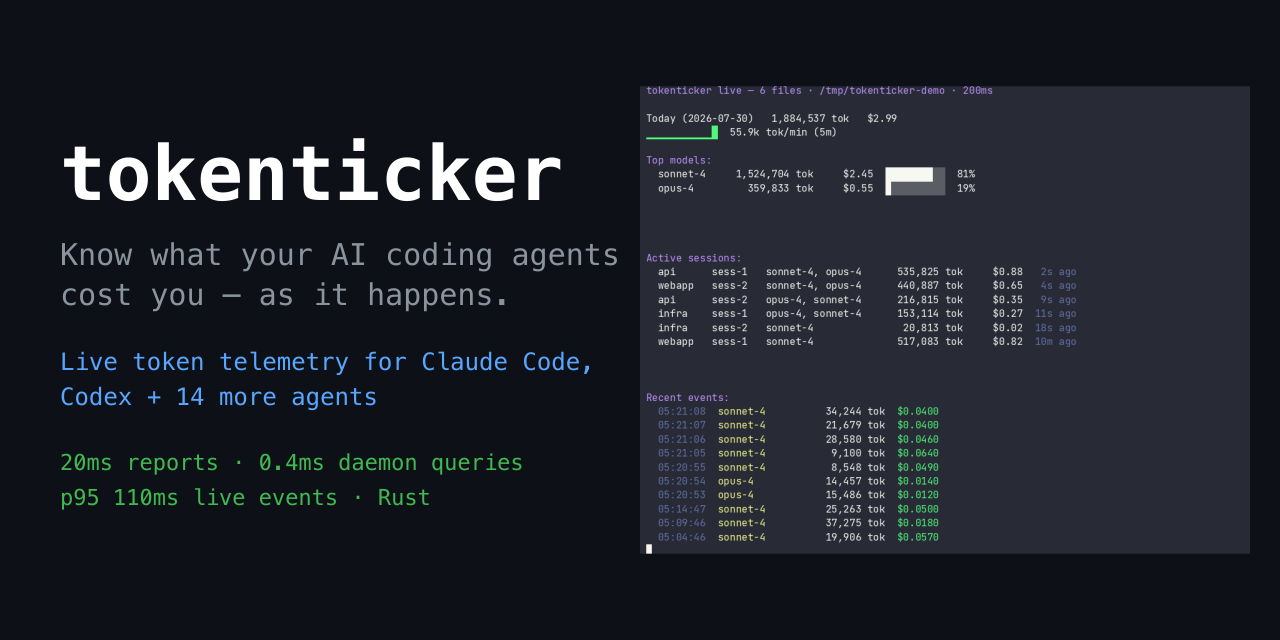
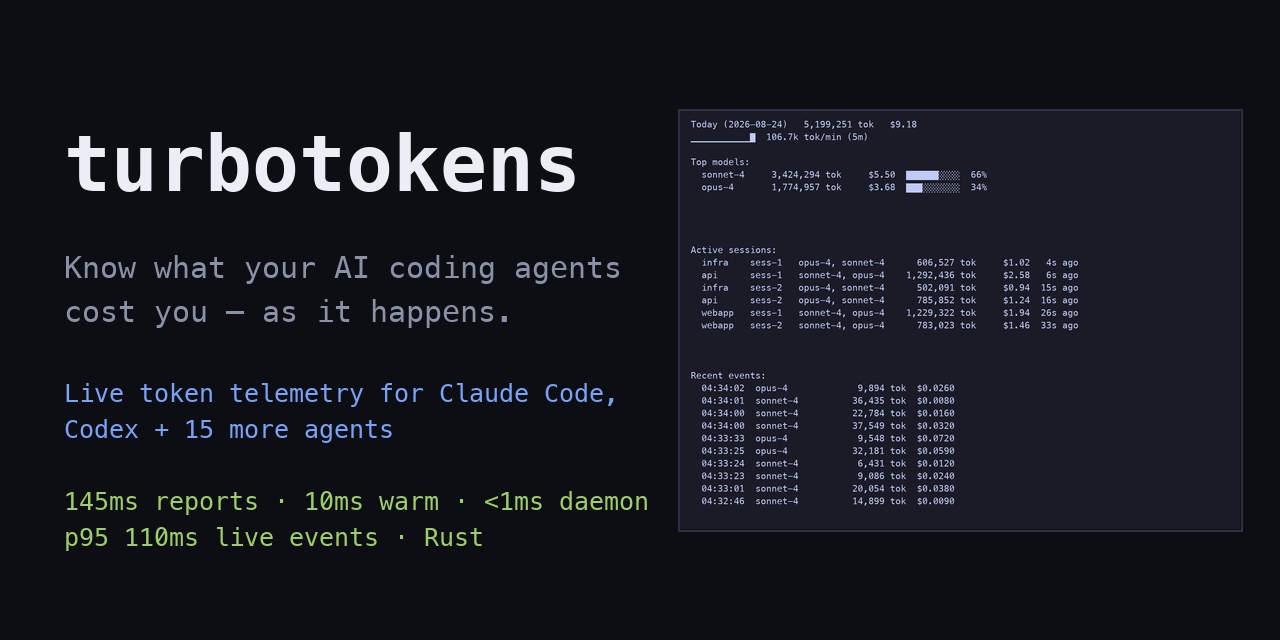
README: hero-first rewrite with regenerated turbotokens-branded assets
- live-demo.gif hero (asciinema+agg capture of the real dashboard)
- live-dashboard/daily-report/social-card re-rendered from real
  terminal output (old images still said 'tokenticker')
- tighter copy: what it is and why in the first screen
- demo/render_cast.py + demo/social_card.py make the assets reproducible

Changed region(s): [[0.0312, 0.125, 1.0, 0.875], [0.0312, 0.5312, 0.4688, 0.875], [0.0312, 0.1875, 0.4688, 0.3125]]

diff --git a/demo/render_cast.py b/demo/render_cast.py
@@ -1,0 +1,142 @@
+#!/usr/bin/env python3
+"""Render the final frame of an asciicast v2 file to a PNG (retina 2x)."""
+import json, sys
+import pyte
+from PIL import Image, ImageDraw, ImageFont
+
+CAST, OUT = sys.argv[1], sys.argv[2]
+COLS = int(sys.argv[3]) if len(sys.argv) > 3 else 100
+ROWS = int(sys.argv[4]) if len(sys.argv) > 4 else 32
+FONT_SIZE = int(sys.argv[5]) if len(sys.argv) > 5 else 30  # 2x of 15px
+TRIM_BOTTOM = len(sys.argv) > 6 and sys.argv[6] == "trim"
+
+# --- theme (tokyo-night-ish, matches old assets) ---
+BG = (26, 27, 38)          # #1a1b26
+FG = (192, 202, 245)       # #c0caf5
+BASE16 = {
+    "black": (21, 23, 36), "red": (247, 118, 142), "green": (158, 206, 106),
+    "yellow": (224, 175, 104), "blue": (122, 162, 247), "magenta": (187, 154, 247),
+    "cyan": (125, 207, 255), "white": (169, 177, 214),
+    "brightblack": (65, 72, 104), "brightred": (247, 118, 142),
+    "brightgreen": (158, 206, 106), "brightyellow": (224, 175, 104),
+    "brightblue": (122, 162, 247), "brightmagenta": (187, 154, 247),
+    "brightcyan": (125, 207, 255), "brightwhite": (192, 202, 245),
+}
+
+def xterm256(n):
+    if n < 16:
+        return list(BASE16.values())[n]
+    if n < 232:
+        n -= 16
+        r, g, b = n // 36, (n % 36) // 6, n % 6
+        conv = lambda v: 55 + v * 40 if v else 0
+        return (conv(r), conv(g), conv(b))
+    v = 8 + (n - 232) * 10
+    return (v, v, v)
+
+def resolve(c, default):
+    if c == "default" or c is None:
+        return default
+    if c in BASE16:
+        return BASE16[c]
+    if isinstance(c, str) and c.isdigit():
+        return xterm256(int(c))
+    if isinstance(c, str) and len(c) == 6:
+        try:
+            return tuple(int(c[i:i+2], 16) for i in (0, 2, 4))
+        except ValueError:
+            pass
+    return default
+
+# --- compose final frame ---
+screen = pyte.Screen(COLS, ROWS)
+stream = pyte.Stream(screen)
+with open(CAST) as f:
+    header = json.loads(f.readline())
+    for line in f:
+        try:
+            ev = json.loads(line)
+        except ValueError:
+            continue
+        if len(ev) >= 3 and ev[1] == "o":
+            stream.feed(ev[2])
+
+lines = []
+for y in range(ROWS):
+    lines.append([screen.display[y]])
+
+# trim fully-blank bottom rows if asked
+disp = screen.display
+last_nonempty = max((i for i, row in enumerate(disp) if row.strip()), default=0)
+nrows = (last_nonempty + 1) if TRIM_BOTTOM else ROWS
+
+# --- fonts ---
+MENLO = "/System/Library/Fonts/Menlo.ttc"
+font = ImageFont.truetype(MENLO, FONT_SIZE, index=0)
+bold = ImageFont.truetype(MENLO, FONT_SIZE, index=1)
+cw = font.getlength("M")
+ascent, descent = font.getmetrics()
+lh = ascent + descent + int(FONT_SIZE * 0.22)
+
+PADX, PADY = int(FONT_SIZE * 1.2), int(FONT_SIZE * 0.9)
+W = int(COLS * cw) + PADX * 2
+H = nrows * lh + PADY * 2
+
+img = Image.new("RGB", (W, H), BG)
+d = ImageDraw.Draw(img)
+
+# --- vector-draw box-drawing chars so lines connect perfectly ---
+LINE_W = max(2, int(FONT_SIZE * 0.075))
+
+def draw_box(ch, px, py, w, h, color):
+    cx, cy = px + w / 2, py + h / 2
+    L = R = T = B = False
+    ARC = None
+    if ch in "─━┄┅┈┉╌╍": L = R = True
+    elif ch in "│┃┆┇┊┋╎╏": T = B = True
+    elif ch in "┌┍┎┏": R = B = True
+    elif ch in "┐┑┒┓": L = B = True
+    elif ch in "└┕┖┗": R = T = True
+    elif ch in "┘┙┚┛": L = T = True
+    elif ch in "├┝┞┟┠┡┢┣": T = B = R = True
+    elif ch in "┤┥┦┧┨┩┪┫": T = B = L = True
+    elif ch in "┬┭┮┯┰┱┲┳": L = R = B = True
+    elif ch in "┴┵┶┷┸┹┺┻": L = R = T = True
+    elif ch in "┼╀╁╂╃╄╅╆╇╈╉╊╋": L = R = T = B = True
+    elif ch == "╭": ARC = (px, py, px + w, py + h); ST, EN = 0, 90
+    elif ch == "╮": ARC = (px, py, px + w, py + h); ST, EN = 90, 180
+    elif ch == "╰": ARC = (px, py, px + w, py + h); ST, EN = 270, 360
+    elif ch == "╯": ARC = (px, py, px + w, py + h); ST, EN = 180, 270
+    else:
+        return False
+    if ARC:
+        x0, y0, x1, y1 = ARC
+        d.arc([x0 - LINE_W / 2, y0 - LINE_W / 2, x1 + LINE_W / 2, y1 + LINE_W / 2],
+              ST, EN, fill=color, width=LINE_W)
+        return True
+    hw = LINE_W / 2
+    if L: d.rectangle([px, cy - hw, cx + hw, cy + hw], fill=color)
+    if R: d.rectangle([cx - hw, cy - hw, px + w, cy + hw], fill=color)
+    if T: d.rectangle([cx - hw, py, cx + hw, cy + hw], fill=color)
+    if B: d.rectangle([cx - hw, cy - hw, cx + hw, py + h], fill=color)
+    return True
+
+for y in range(nrows):
+    row = disp[y]
+    for x in range(min(COLS, len(row))):
+        ch = screen.buffer[y][x]
+        if ch.data == " " and ch.bg in ("default", None):
+            continue
+        px, py = PADX + x * cw, PADY + y * lh
+        fg = resolve(ch.fg, FG)
+        bg = resolve(ch.bg, BG)
+        if ch.reverse:
+            fg, bg = bg, fg
+        if bg != BG or ch.reverse:
+            d.rectangle([px, py, px + cw, py + lh], fill=bg)
+        if ch.data.strip():
+            if len(ch.data) == 1 and draw_box(ch.data, px, py, cw, lh, fg):
+                continue
+            d.text((px, py), ch.data, font=bold if ch.bold else font, fill=fg)
+img.save(OUT)
+print(f"wrote {OUT} {W}x{H}")

diff --git a/demo/social_card.py b/demo/social_card.py
@@ -1,0 +1,47 @@
+#!/usr/bin/env python3
+"""Compose the turbotokens social card (1280x640) from the dashboard PNG."""
+import sys
+from PIL import Image, ImageDraw, ImageFont
+
+DASH = sys.argv[1] if len(sys.argv) > 1 else "assets/live-dashboard.png"
+OUT = sys.argv[2] if len(sys.argv) > 2 else "assets/social-card.png"
+
+BG = (13, 14, 20)
+WHITE = (235, 238, 245)
+GRAY = (139, 146, 168)
+BLUE = (122, 162, 247)
+GREEN = (158, 206, 106)
+
+MENLO = "/System/Library/Fonts/Menlo.ttc"
+f_word = ImageFont.truetype(MENLO, 78, index=1)   # bold
+f_tag = ImageFont.truetype(MENLO, 30, index=0)
+f_line = ImageFont.truetype(MENLO, 25, index=0)
+
+W, H = 1280, 640
+img = Image.new("RGB", (W, H), BG)
+d = ImageDraw.Draw(img)
+
+LX = 64
+y = 118
+d.text((LX, y), "turbotokens", font=f_word, fill=WHITE)
+y += 132
+d.text((LX, y), "Know what your AI coding agents", font=f_tag, fill=GRAY); y += 44
+d.text((LX, y), "cost you — as it happens.", font=f_tag, fill=GRAY)
+y += 84
+d.text((LX, y), "Live token telemetry for Claude Code,", font=f_line, fill=BLUE); y += 36
+d.text((LX, y), "Codex + 15 more agents", font=f_line, fill=BLUE)
+y += 72
+d.text((LX, y), "145ms reports · 10ms warm · <1ms daemon", font=f_line, fill=GREEN); y += 36
+d.text((LX, y), "p95 110ms live events · Rust", font=f_line, fill=GREEN)
+
+dash = Image.open(DASH)
+tw = 560
+th = int(dash.height * tw / dash.width)
+dash = dash.resize((tw, th), Image.LANCZOS)
+DX, DY = W - tw - 40, (H - th) // 2
+# subtle frame
+d.rectangle([DX - 2, DY - 2, DX + tw + 2, DY + th + 2], outline=(45, 48, 66), width=2)
+img.paste(dash, (DX, DY))
+
+img.save(OUT)
+print(f"wrote {OUT}")

diff --git a/README.md b/README.md
@@ -1,11 +1,18 @@
+<div align="center">
+
 # turbotokens
 
-**Know what your AI coding agents are costing you — as it happens.**
+**Real-time token telemetry for AI coding agents.**
+
+Every token your agents burn, turned into a live ticker: dashboards, instant cost<br>
+reports, budget alerts, and metrics you can pipe anywhere. One Rust binary. No runtime.
 
 [![ci](https://github.com/maxmoneycash/turbotokens/actions/workflows/ci.yml/badge.svg)](https://github.com/maxmoneycash/turbotokens/actions/workflows/ci.yml)
 [![release](https://img.shields.io/github/v/release/maxmoneycash/turbotokens)](https://github.com/maxmoneycash/turbotokens/releases)
 
-Claude Code, Codex, and a dozen other agents write every token they burn into local log files. turbotokens turns those logs into a live ticker of your AI spend: a real-time dashboard, instant cost reports, budget alerts, and metrics you can pipe anywhere. A single Rust binary, no runtime to install. Reports that used to take seconds come back in milliseconds — and new usage shows up in about a tenth of a second.
+<img src="assets/live-demo.gif" alt="turbotokens live dashboard — tokens, cost, burn rate, active sessions, and events streaming in real time" width="900">
+
+</div>
 
 ## Install
 
@@ -15,17 +22,21 @@ curl -fsSL https://raw.githubusercontent.com/maxmoneycash/turbotokens/main/insta
 
 Prebuilt binaries for macOS (arm64/x64) and Linux (x64) are on the [Releases](https://github.com/maxmoneycash/turbotokens/releases) page. Or build from source: `cargo install --path rust/crates/turbotokens --features fetch-litellm-pricing`.
 
-## See your spend live
+## Why turbotokens
+
+- **Live** — usage hits your screen ~100 ms after the agent writes it. Not a poller: a stream.
+- **Fast** — a full report over 2.5 GB of logs in **145 ms** cold, **10 ms** warm, **<1 ms** from the daemon.
+- **Every agent** — 17 agents out of the box: Claude Code, Codex, OpenCode, Amp, Gemini, Copilot, Kimi, Grok Build, Qwen, and more.
+- **Built to integrate** — JSON on every command, a Prometheus endpoint, webhook budget alerts, shell completions.
+
+## Watch spend as it happens
 
 ```bash
-turbotokens live
+turbotokens live                    # Claude Code
+turbotokens live --agent codex      # or Codex
 ```
 
-![turbotokens live dashboard: today's tokens and cost, burn-rate sparkline, model share bars, active sessions, and a stream of usage events](assets/live-dashboard.png)
-
-A dashboard that updates the moment an agent writes a log line: today's tokens and cost, burn rate over the last 5 minutes, which models you're using, which sessions are active right now, and a stream of every usage event as it lands.
-
-Point it at whatever you use: `turbotokens live --agent codex`.
+Today's tokens and cost, burn rate over the last 5 minutes, model share, which sessions are active right now, and every usage event as it lands.
 
 ## Turn telemetry into action
 
@@ -50,7 +61,7 @@ turbotokens blocks             # 5-hour billing windows
 turbotokens daily --watch      # auto-refresh as logs change
 ```
 
-![turbotokens daily report table](assets/daily-report.png)
+![turbotokens daily report: date, models, input/output/cache tokens, and cost in a table](assets/daily-report.png)
 
 Want them instant, always, even while you work?
 
@@ -70,7 +81,7 @@ Measured on a real 2.5 GB / 1,641-file dataset, median of 10+ runs, byte-identic
 | Same report on an unchanged dataset | **10 ms** |
 | Report served by the daemon | **< 1 ms** |
 | Live event latency (log write → on screen) | **p95 ≈ 110 ms** |
-| Agents supported | **17** (Claude Code, Codex, OpenCode, Amp, Gemini, Copilot, Kimi, Grok Build, Qwen, and more) |
+| Agents supported | **17** |
 
 ## How it compares
 
@@ -94,8 +105,8 @@ That's **43–68x faster** than the most popular alternative on a cold scan and 
 ```bash
 $ turbotokens doctor
 ✓ version: 1.0.0
-✓ claude data: ~/.claude (1,084 JSONL files, 1.6 GB)
-✓ codex data: ~/.codex/sessions (559 JSONL files)
+✓ claude data: ~/.claude (1,084 JSONL files, 2.1 GB)
+✓ codex data: ~/.codex/sessions (557 JSONL files, 0.4 GB)
 ✓ parse cache: 5,946 entries, 99.8 MB
 ✓ embedded pricing: loadable (460 models)
 ```

diff --git a/demo/README.md b/demo/README.md
@@ -25,3 +25,30 @@ Ctrl-C everything, then `demo/seed.sh && clear`.
 
 Notes: use a big font, ~100 columns, colors on (no NO_COLOR). Let feed.sh
 run 10-15s before the live segment so the burn rate is non-zero.
+
+## Regenerating the README images
+
+The PNGs in `assets/` are rendered from real terminal captures, not mockups:
+
+```bash
+demo/seed.sh
+(CLAUDE_CONFIG_DIR=/tmp/turbotokens-demo demo/feed.sh &)   # keep data flowing
+
+# record a live session, then render the final frame to PNG
+asciinema rec --overwrite -q --cols 100 --rows 32 \
+  -c 'sh -c "CLAUDE_CONFIG_DIR=/tmp/turbotokens-demo turbotokens live --offline & p=$!; sleep 12; kill $p"' \
+  /tmp/tt-live.cast
+python3 demo/render_cast.py /tmp/tt-live.cast assets/live-dashboard.png 100 32 30
+
+# daily report
+asciinema rec --overwrite -q --cols 100 --rows 40 \
+  -c 'env CLAUDE_CONFIG_DIR=/tmp/turbotokens-demo turbotokens claude daily --offline' \
+  /tmp/tt-daily.cast
+python3 demo/render_cast.py /tmp/tt-daily.cast assets/daily-report.png 100 40 30 trim
+
+# social card + animated demo
+python3 demo/social_card.py        # composites the dashboard PNG, 1280x640
+agg --font-size 16 --speed 1.2 /tmp/tt-live.cast assets/live-demo.gif
+```
+
+`render_cast.py` needs `pyte` and `Pillow` (a venv works fine). Font: Menlo.
